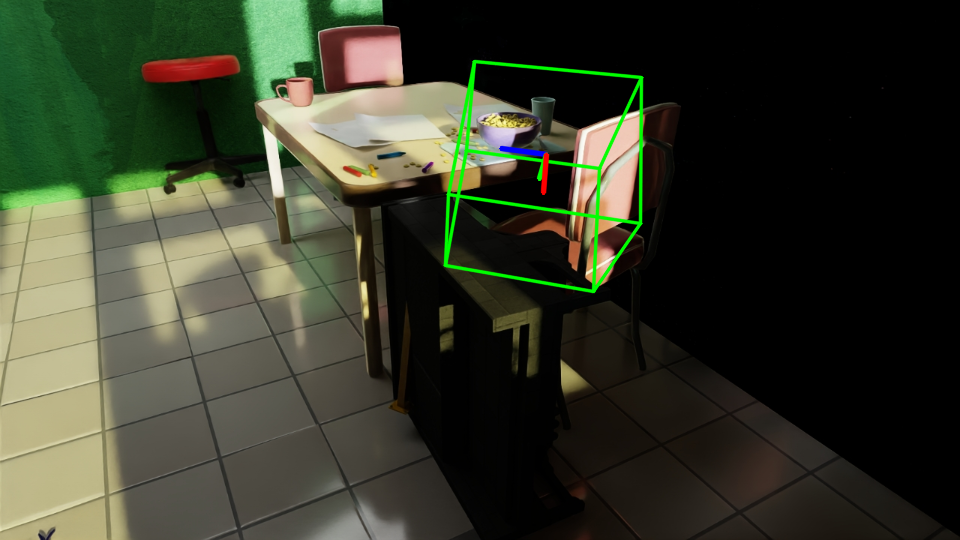
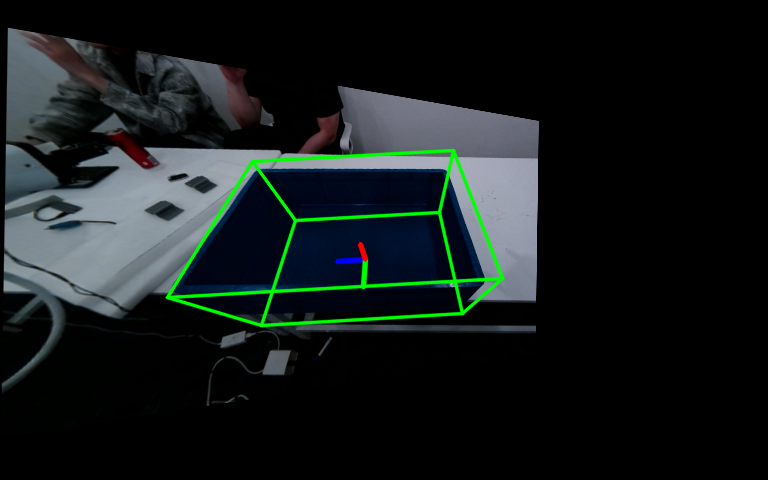
auto-commit

diff --git a/test_demo.py b/test_demo.py
@@ -40,7 +40,7 @@ def main():
     glctx = dr.RasterizeCudaContext()
     n = bboxes.shape[0]
 
-    for i in range(n-1, n):
+    for i in range(1):
         ob_mask = ob_masks[i]
         bbox = bboxes[i]
         vis = rgb.copy()
@@ -59,47 +59,38 @@ def main():
             poisson_mesh.remove_degenerate_triangles()
             poisson_mesh.remove_duplicated_triangles()
             poisson_mesh.remove_duplicated_vertices()
-            poisson_mesh.remove_non_manifold_edges()    
+            poisson_mesh.remove_non_manifold_edges()
+            poisson_mesh = poisson_mesh.simplify_quadric_decimation(target_number_of_triangles=15000)
             
             vertices = np.asarray(poisson_mesh.vertices)
             center = vertices.mean(axis=0)
             vertices -= center
             mesh = trimesh.Trimesh(vertices=vertices, faces=np.asarray(poisson_mesh.triangles), vertex_normals=np.asarray(poisson_mesh.vertex_normals), process=True)
             print(f"\nMesh reconstructed successfully! Offset from camera: {center}\n")
+            mesh.vertices += center
+            mesh.merge_vertices()
+            mesh.update_faces(mesh.nondegenerate_faces())
+            mesh.update_faces(mesh.unique_faces())
 
         else:
-            # mesh文件是ply格式
-            mesh_path = "./pre_result/crate/crate_1_visual.ply"
+            mesh_path = "./pre_result/crate/crate_0_visual.ply"
             mesh = trimesh.load(mesh_path, process=True)
             mesh.update_faces(mesh.nondegenerate_faces())
             mesh.update_faces(mesh.unique_faces())
             mesh.merge_vertices()
 
-            mask_valid = (ob_mask > 0) & (depth > 1e-6)
-            depth_obj = depth[mask_valid]
-
-            print("min:", depth_obj.min())
-            print("max:", depth_obj.max())
-            print("mean:", depth_obj.mean())
-            print("median:", np.median(depth_obj))
-            print("std:", depth_obj.std())
-
-            sys.exit(0)
-
-            # ## 显示点云 从depth和mask生成
-            # pcd = o3d.geometry.PointCloud()
+            # # 根据mask和depth 可视化点云
             # xyz_map = depth2xyzmap(depth, K_orig)
             # valid = (depth > 0.001) & ob_mask
+            # pcd = o3d.geometry.PointCloud()
             # pcd.points = o3d.utility.Vector3dVector(xyz_map[valid])
             # pcd.colors = o3d.utility.Vector3dVector(rgb[valid] / 255.0)
+            # pcd.estimate_normals(search_param=o3d.geometry.KDTreeSearchParamKNN(knn=50))
+            # pcd.orient_normals_towards_camera_location(camera_location=np.array([0., 0., 0.]))
+            # print(f"\nMesh loaded successfully! Point cloud visualized with {len(pcd.points)} points.\n")
             # o3d.visualization.draw_geometries([pcd], window_name="Input Point Cloud", width=800, height=600)
-            # # 估计点云的尺寸
-            # bbox_3d = np.array([mesh.vertices.min(axis=0), mesh.vertices.max(axis=0)])
-            # print(f"\nMesh loaded successfully! Estimated object size: {bbox_3d[1] - bbox_3d[0]}\n")
             # sys.exit(0)
 
-        # 加载 foundationpose 模型
-        depth = depth * 2.5
         est = FoundationPose(
             model_pts=mesh.vertices,
             model_normals=mesh.vertex_normals,
@@ -112,56 +103,42 @@ def main():
         )
         print("\nFoundationPose initialized successfully!\n")
 
-        # pose estimation
         pose = est.register(K=K_orig, rgb=vis, depth=depth, ob_mask=ob_mask, iteration=5)
         print(f"\nPose estimation completed! Estimated pose:\n{pose}\n")
-
         bbox_3d = np.array([mesh.vertices.min(axis=0), mesh.vertices.max(axis=0)])
-
-        def draw_box(img, corners_2d):
-            edges = [
-                (0,1),(1,2),(2,3),(3,0),  # bottom
-                (4,5),(5,6),(6,7),(7,4),  # top
-                (0,4),(1,5),(2,6),(3,7)   # vertical
-            ]
-
-            for i,j in edges:
-                p1 = tuple(corners_2d[i].astype(int))
-                p2 = tuple(corners_2d[j].astype(int))
-                cv2.line(img, p1, p2, (0,255,0), 2)
-
-            return img
-        
-        def get_3d_box_corners(bbox):
-            min_pt, max_pt = bbox
-            x0, y0, z0 = min_pt
-            x1, y1, z1 = max_pt
-
-            corners = np.array([
-                [x0, y0, z0],
-                [x1, y0, z0],
-                [x1, y1, z0],
-                [x0, y1, z0],
-                [x0, y0, z1],
-                [x1, y0, z1],
-                [x1, y1, z1],
-                [x0, y1, z1],
-            ])
-            return corners
-
-        # vis = draw_posed_3d_box(K_orig, img=vis, ob_in_cam=pose, bbox=bbox_3d)
+        vis = draw_posed_3d_box(K_orig, img=vis, ob_in_cam=pose, bbox=bbox_3d)
         vis = draw_xyz_axis(vis, ob_in_cam=pose, scale=0.1, K=K_orig, thickness=3, transparency=0, is_input_rgb=True)
-
-        corners = get_3d_box_corners(bbox_3d)
-        corners_cam = (pose[:3,:3] @ corners.T + pose[:3,3:4]).T
-        proj = (K_orig @ corners_cam.T).T
-        proj = proj[:, :2] / proj[:, 2:3]
-        vis = draw_box(vis, proj) 
 
         cv2.imshow('Estimated Pose', vis[...,::-1])
         cv2.imwrite(os.path.join(save_dir, f"result_{i:02d}.png"), vis)
         cv2.waitKey(0)
         cv2.destroyAllWindows()
+
+        # save 3D visualization of the final pose in point cloud with xyzaxis
+        print("="*50)
+        pcd = o3d.geometry.PointCloud()
+        xyz_map = depth2xyzmap(depth, K_orig)
+        valid = (depth > 0.001) & ob_mask
+        pcd.points = o3d.utility.Vector3dVector(xyz_map[valid])
+        pcd.colors = o3d.utility.Vector3dVector(rgb[valid] / 255.0)
+        pcd.estimate_normals(search_param=o3d.geometry.KDTreeSearchParamKNN(knn=50))
+        pcd.orient_normals_towards_camera_location(camera_location=np.array([0., 0., 0.]))
+        ob_in_cam = pose
+        axis_length = 0.1
+        axis_points = np.array([[0, 0, 0], [axis_length, 0, 0], [0, axis_length, 0], [0, 0, axis_length]])
+        
+        # 将坐标轴原点设置为点云的中心，并应用pose的旋转
+        c = np.mean(np.asarray(pcd.points), axis=0)
+        axis_points_transformed = c + (ob_in_cam[:3, :3] @ axis_points.T).T
+        
+        axis_lines = [[0, 1], [0, 2], [0, 3]]
+        axis_colors = [[1, 0, 0], [0, 1, 0], [0, 0, 1]]
+        axis_line_set = o3d.geometry.LineSet(
+            points=o3d.utility.Vector3dVector(axis_points_transformed),
+            lines=o3d.utility.Vector2iVector(axis_lines),
+        )
+        axis_line_set.colors = o3d.utility.Vector3dVector(axis_colors)
+        o3d.visualization.draw_geometries([pcd, axis_line_set], window_name="Final Pose Visualization", width=800, height=600)
 
 if __name__ == "__main__":
     main()